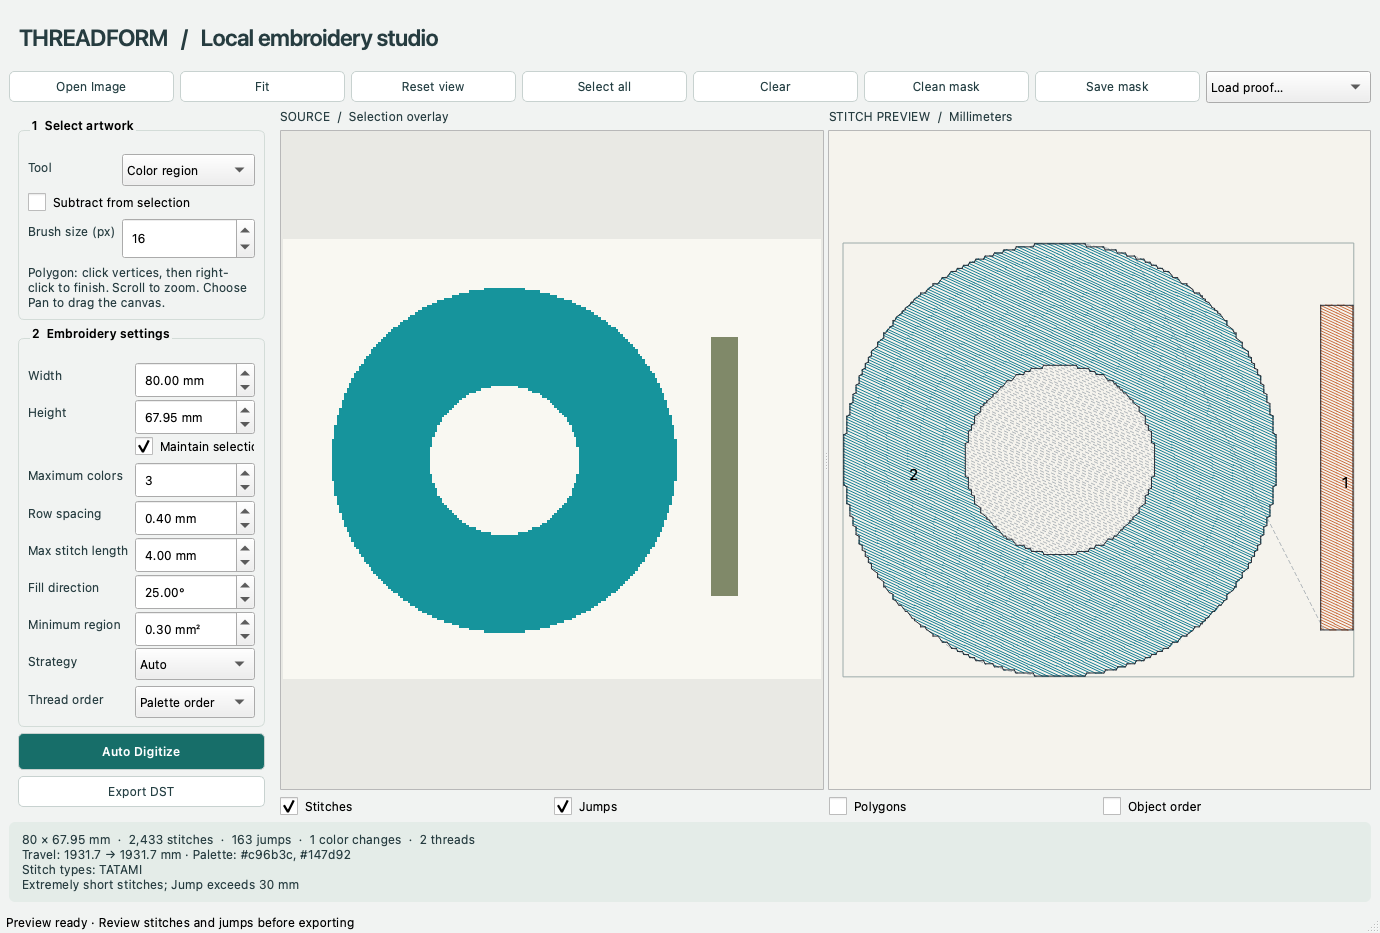
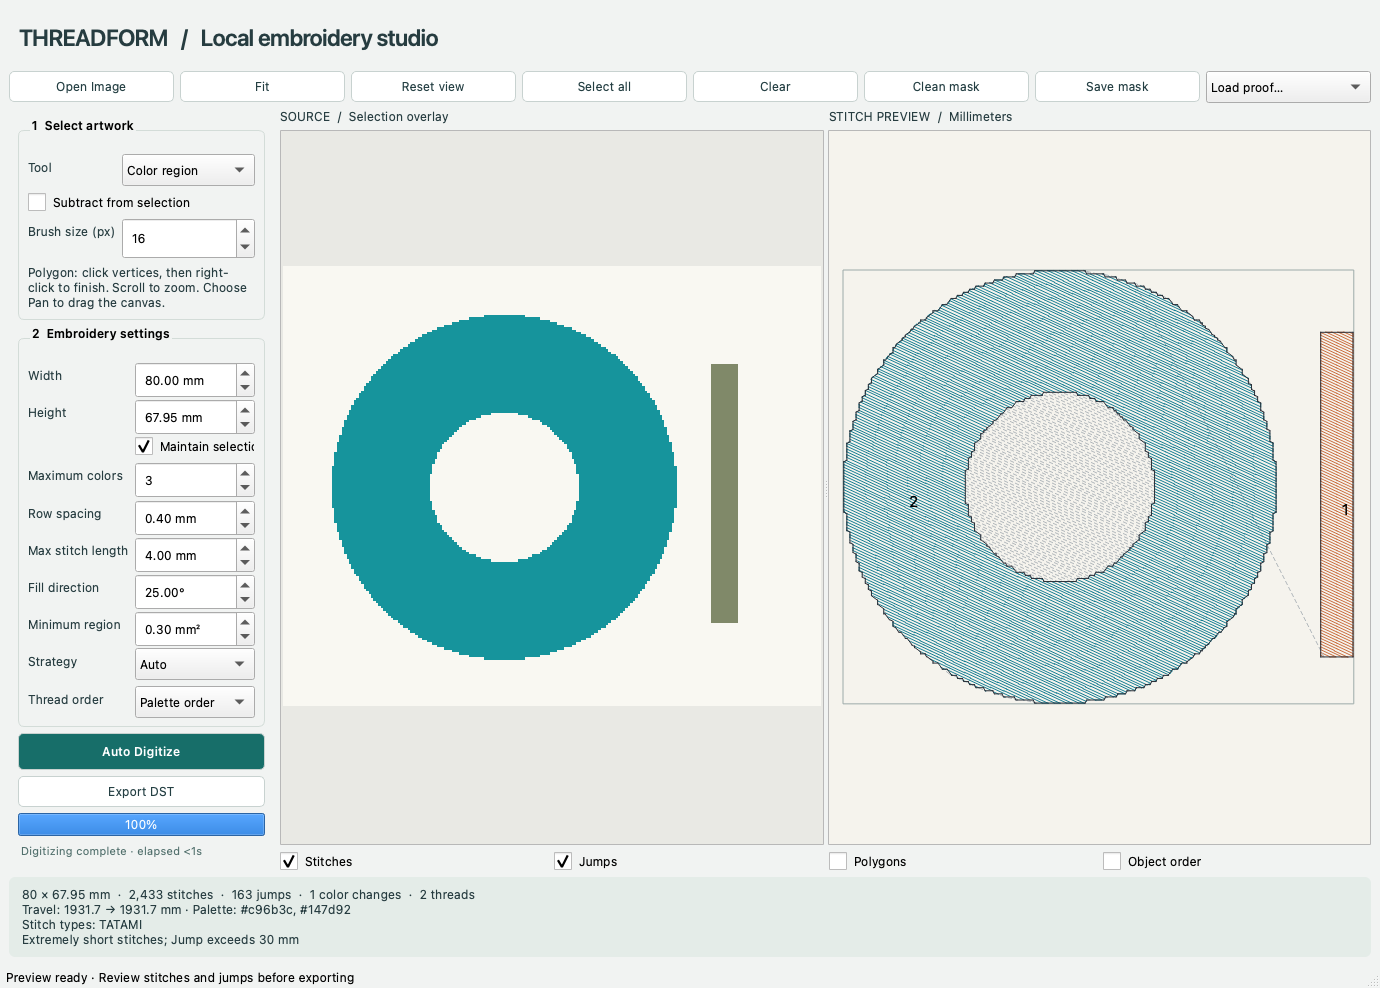
Add digitizing progress and time estimate

diff --git a/embroidery_app/ui/main_window.py b/embroidery_app/ui/main_window.py
@@ -1,8 +1,9 @@
 from pathlib import Path
+from time import monotonic
 import numpy as np
 from PySide6.QtWidgets import (QMainWindow,QWidget,QVBoxLayout,QHBoxLayout,QPushButton,
     QLabel,QFileDialog,QMessageBox,QSplitter,QComboBox,QCheckBox,QDoubleSpinBox,
-    QSpinBox,QFormLayout,QGroupBox,QApplication)
+    QSpinBox,QFormLayout,QGroupBox,QApplication,QProgressBar)
 from PySide6.QtCore import QObject,Signal,Slot,QThread,Qt
 from embroidery_app.ui.image_canvas import ImageCanvas
 from embroidery_app.ui.stitch_preview import StitchPreview
@@ -16,6 +17,7 @@ from embroidery_app.embroidery.models import Command
 class Digitizer(QObject):
     finished=Signal(object,object)
     failed=Signal(str)
+    progress=Signal(float,str)
     done=Signal()
 
     def __init__(self,image,mask,settings):
@@ -25,7 +27,7 @@ class Digitizer(QObject):
     @Slot()
     def run(self):
         try:
-            design,metrics=digitize(self.image,self.mask,**self.settings)
+            design,metrics=digitize(self.image,self.mask,progress=self.progress.emit,**self.settings)
             self.finished.emit(design,metrics)
         except Exception as error:
             self.failed.emit(str(error))
@@ -42,6 +44,8 @@ class MainWindow(QMainWindow):
         self.worker=None
         self.design=None
         self.dirty=False
+        self._progress_started_at=None
+        self._progress_elapsed=0.0
         self.setStyleSheet("""
             QMainWindow {background:#f1f3f2;}
             QLabel {color:#263c40;}
@@ -121,6 +125,16 @@ class MainWindow(QMainWindow):
         self.generate_button.setStyleSheet("background:#176e69;color:white;font-weight:600;padding:10px;")
         self.export_button=self.button(side,"Export DST",self.export)
         self.export_button.setEnabled(False)
+        self.progress_bar=QProgressBar()
+        self.progress_bar.setRange(0,100)
+        self.progress_bar.setValue(0)
+        self.progress_bar.setTextVisible(True)
+        self.progress_bar.setFormat("%p%")
+        side.addWidget(self.progress_bar)
+        self.estimate_label=QLabel("Ready to digitize")
+        self.estimate_label.setWordWrap(True)
+        self.estimate_label.setStyleSheet("color:#52706d;font-size:11px;padding:2px 0 5px")
+        side.addWidget(self.estimate_label)
         side.addStretch()
         workspace=QVBoxLayout()
         content.addLayout(workspace,1)
@@ -232,11 +246,16 @@ class MainWindow(QMainWindow):
             return
         self.centralWidget().setEnabled(False)
         self.statusBar().showMessage("Generating geometry and stitches…")
+        self._progress_started_at=monotonic()
+        self._progress_elapsed=0.0
+        self.progress_bar.setValue(0)
+        self.estimate_label.setText("Preparing selected artwork · estimating remaining time…")
         self.thread=QThread(self)
         self.worker=Digitizer(self.canvas.image.copy(),self.canvas.mask.copy(),self.settings())
         self.worker.moveToThread(self.thread)
         self.thread.started.connect(self.worker.run)
         self.worker.finished.connect(self.accept_design)
+        self.worker.progress.connect(self.generation_progress)
         self.worker.failed.connect(self.generation_failed)
         self.worker.done.connect(self.thread.quit)
         self.worker.done.connect(self.worker.deleteLater)
@@ -252,11 +271,48 @@ class MainWindow(QMainWindow):
     @Slot(str)
     def generation_failed(self,message):
         self.statusBar().showMessage("Digitizing failed; adjust the selection or settings.")
+        if self._progress_started_at is not None:
+            self._progress_elapsed=monotonic()-self._progress_started_at
+            self.estimate_label.setText(f"Failed after {self.format_duration(self._progress_elapsed)}")
         QMessageBox.critical(self,"Digitizing failed",message)
+
+    @staticmethod
+    def format_duration(seconds):
+        if seconds < 0.5:
+            return "<1s"
+        if seconds < 60:
+            return f"{seconds:.1f}s"
+        minutes, remainder=divmod(round(seconds),60)
+        return f"{minutes}m {remainder:02d}s"
+
+    @Slot(float,str)
+    def generation_progress(self,fraction,message):
+        fraction=max(0.0,min(1.0,float(fraction)))
+        self.progress_bar.setValue(round(fraction*100))
+        if self._progress_started_at is None:
+            self._progress_started_at=monotonic()
+        elapsed=monotonic()-self._progress_started_at
+        self._progress_elapsed=elapsed
+        if fraction >= 1.0:
+            self.estimate_label.setText(f"{message} · elapsed {self.format_duration(elapsed)}")
+            return
+        if fraction >= 0.05 and elapsed >= 0.1:
+            remaining=max(0.0, elapsed*(1.0-fraction)/fraction)
+            eta=f"~{self.format_duration(remaining)} remaining"
+        else:
+            eta="estimating remaining time…"
+        self.estimate_label.setText(f"{message} · {self.format_duration(elapsed)} elapsed · {eta}")
 
     @Slot(object,object)
     def accept_design(self,design,metrics):
         self.design=design; self.dirty=False
+        if self._progress_started_at is not None and metrics:
+            self._progress_elapsed=monotonic()-self._progress_started_at
+            self.progress_bar.setValue(100)
+            self.estimate_label.setText(f"Digitizing complete · elapsed {self.format_duration(self._progress_elapsed)}")
+        elif not metrics:
+            self.progress_bar.setValue(100)
+            self.estimate_label.setText("Preview loaded · ready to digitize")
         self.preview.display(design)
         errors,warnings=validate(design,12.1 if not metrics else self.length.value())
         counts={c:sum(s.command==c for s in design.stitches) for c in Command}

diff --git a/embroidery_app/embroidery/engine.py b/embroidery_app/embroidery/engine.py
@@ -7,14 +7,25 @@ from embroidery_app.embroidery.optimizer import optimize,travel
 from embroidery_app.image_processing.vectorization import vectorize
 
 
+def _report(progress, fraction, message):
+    """Send a bounded progress update without coupling the engine to Qt."""
+    if progress is not None:
+        progress(max(0.0, min(1.0, float(fraction))), message)
+
+
 def digitize(image,mask,width=80,height=80,colors=3,spacing=0.4,length=3,angle=0,
-             min_area=0.3,mode="Auto",reverse_colors=False):
+             min_area=0.3,mode="Auto",reverse_colors=False,progress=None):
+    _report(progress, 0.02, "Preparing selected artwork")
     regions=vectorize(image,mask,width,height,colors,min_area)
+    _report(progress, 0.25, f"Found {len(regions)} geometric regions")
     design=EmbroideryDesign(width,height,(image.shape[1],image.shape[0]),regions=[p for p,c in regions])
     if sum(p.area for p,c in regions)/(spacing*length)>150000:
         raise ValueError("Design would exceed the 150,000-stitch V1 limit; reduce size or increase spacing")
     blocks=[]
-    for obj in plan(regions,spacing,length,angle,mode):
+    planned=plan(regions,spacing,length,angle,mode)
+    _report(progress, 0.35, f"Planning {len(planned)} embroidery objects")
+    total=max(1, len(planned))
+    for index,obj in enumerate(planned):
         if obj.stitch_type==StitchType.RUNNING:
             path=[]
             for ring in [obj.geometry.exterior,*obj.geometry.interiors]:
@@ -36,9 +47,13 @@ def digitize(image,mask,width=80,height=80,colors=3,spacing=0.4,length=3,angle=0
             blocks.append((obj,path))
             if sum(len(p) for o,p in blocks)>150000:
                 raise ValueError("Design exceeds the 150,000-command V1 limit")
+        _report(progress, 0.35 + 0.48 * (index + 1) / total,
+                f"Generating stitches {index + 1}/{len(planned)}")
     metrics={"before":travel(blocks)}
+    _report(progress, 0.87, "Optimizing stitch order")
     blocks=optimize(blocks,reverse_colors)
     metrics["after"]=travel(blocks)
+    _report(progress, 0.93, "Assembling thread colors")
     color=None
     for obj,path in blocks:
         if obj.color!=color:
@@ -52,4 +67,5 @@ def digitize(image,mask,width=80,height=80,colors=3,spacing=0.4,length=3,angle=0
     if design.stitches:
         last=design.stitches[-1]
         design.stitches.append(Stitch(last.x,last.y,Command.END))
+    _report(progress, 1.0, "Digitizing complete")
     return design,metrics

diff --git a/tests/test_engine.py b/tests/test_engine.py
@@ -90,3 +90,16 @@ def test_dense_and_long_validation():
     errors,warnings=validate(design,3)
     assert any("maximum" in e for e in errors)
     assert any("dense" in w for w in warnings)
+
+
+def test_digitize_reports_monotonic_progress():
+    image,mask=fixture(0)
+    updates=[]
+    design,metrics=digitize(image,mask,80,60,colors=2,length=4,
+                            progress=lambda fraction,message:updates.append((fraction,message)))
+    assert design.stitches
+    assert metrics["after"]["jumps"] >= 0
+    assert updates[0][0] > 0
+    assert updates[-1] == (1.0,"Digitizing complete")
+    assert all(a[0] <= b[0] for a,b in zip(updates,updates[1:]))
+    assert any("Generating stitches" in message for _,message in updates)

diff --git a/tests/test_ui.py b/tests/test_ui.py
@@ -75,6 +75,8 @@ def test_full_desktop_workflow(tmp_path,monkeypatch):
     assert window.thread is None
     assert window.design is not None
     assert window.export_button.isEnabled()
+    assert window.progress_bar.value()==100
+    assert "complete" in window.estimate_label.text().lower()
     assert len(window.design.thread_colors)==2
     output=tmp_path/"desktop.dst"
     monkeypatch.setattr(QFileDialog,"getSaveFileName",lambda *a,**k:(str(output),""))

diff --git a/README.md b/README.md
@@ -31,7 +31,7 @@ On this configured Mac, double-click `Launch.command`, or run `.venv/bin/python 
 1. Open a PNG/JPG. Drag a rectangle, paint with Brush, click polygon vertices and right-click to close, or click a connected Color region.
 2. Use Subtract to remove unwanted areas. Clean mask applies a small open/close filter; Save mask writes a debug PNG. Select all includes the background unless it is transparent.
 3. Set output size (selection aspect ratio is maintained by default), maximum colors, row spacing, direction, maximum stitch length, and minimum region area. Smaller row spacing means denser stitching.
-4. Choose Auto, Outline, or Fill and click Auto Digitize. Generation runs in a worker while the UI remains responsive.
+4. Choose Auto, Outline, or Fill and click Auto Digitize. Generation runs in a worker while the UI remains responsive. The progress bar reports the current stage, percentage, elapsed time, and an ETA based on completed region work. The estimate becomes more stable after the first planning stage.
 5. Inspect stitches, dashed jumps, polygon boundaries, object order and statistics. Adjust and regenerate as needed.
 6. Export DST. Review any displayed warnings. The app reads the temporary DST back and verifies it before saving the destination.
 
@@ -40,6 +40,7 @@ For development, `requirements-lock.txt` records the exact dependency versions t
 ## Verification and examples
 
 - 36 automated tests cover DST round trips, geometric containment, planner rules, satin rails, optimizer travel, selection tools, and the complete desktop selection-to-export workflow.
+- Auto Digitize progress reports are covered by engine and desktop tests; the UI keeps the final elapsed time visible after completion.
 - `examples/` contains square, circle and multiple-color proof DSTs.
 - `examples/logos/` contains ten source images, selection masks, DST files, actual readback previews and `verification.json`. Regenerate with `.venv/bin/python scripts/build_examples.py`.
 - `examples/workflow-preview.png` shows the desktop running the two-color selection workflow.

diff --git a/MILESTONES.md b/MILESTONES.md
@@ -84,9 +84,9 @@ Status vocabulary: NOT STARTED, IN PROGRESS, BLOCKED, DONE. DONE means the accep
 
 ## 10 — Usable V1 — DONE
 - Objective: image → manual selection → settings → automatic digitizing → preview → verified DST.
-- Implementation: connected desktop workflow, worker thread, launcher, ten representative fixture sets and documentation.
+- Implementation: connected desktop workflow, worker thread, live progress/ETA bar, launcher, ten representative fixture sets and documentation.
 - Acceptance: complete workflow exercised through Qt controls and saved DST; all ten source/mask/DST/readback sets generated and visually inspected.
-- Tests: 36 automated tests pass without warnings; native macOS startup passes. `examples/logos/verification.json` records generated output checks.
+- Tests: 37 automated tests pass without warnings; progress callbacks are monotonic and the desktop workflow ends at 100% with elapsed time shown; native macOS startup passes. `examples/logos/verification.json` records generated output checks.
 - Limitations: engineering V1 with limitations in `docs/LIMITATIONS.md`; no physical sew-outs, signed packaging, underlay, tie-off or automatic trims.
 - Next action: sew representative samples on intended fabric/machine, then prioritize underlay, ties, trims and project persistence.
 
